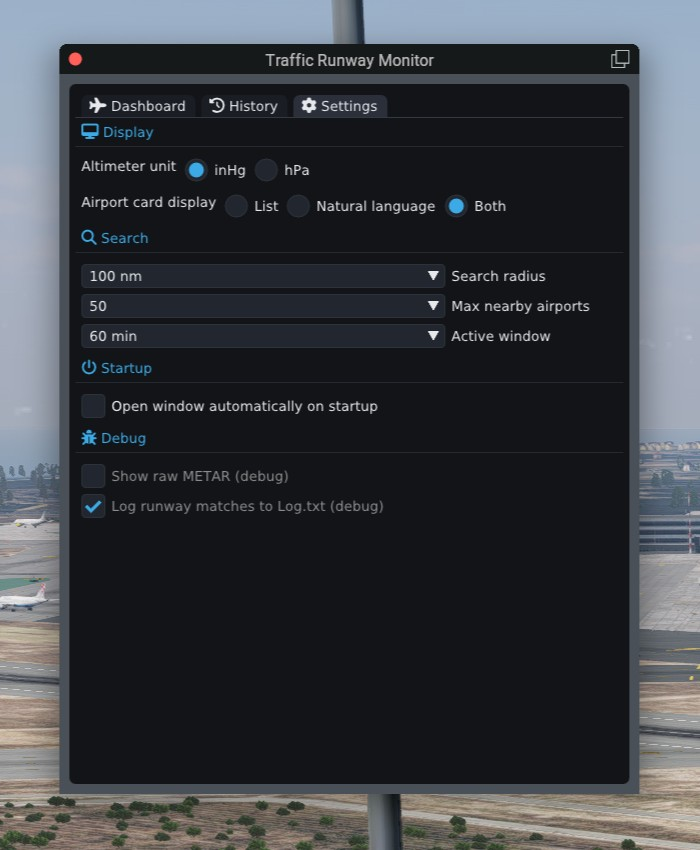
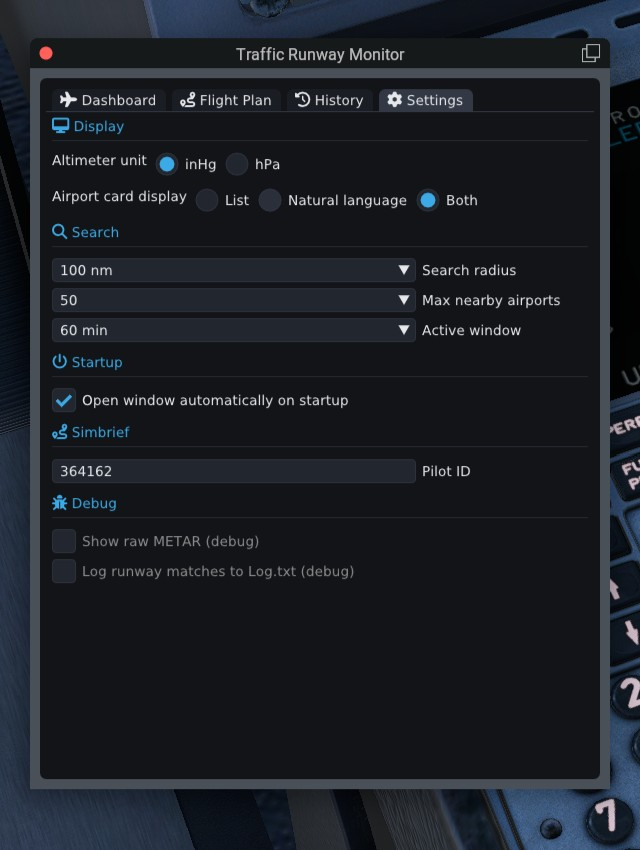
docs(readme): add flight plan screenshots, move gallery to top (#24)
Updates the dashboard/history/settings screenshots and adds the
previously-missing Flight Plan tab, and moves the screenshot gallery
to a single-row table at the top of the README for more visibility.

diff --git a/README.md b/README.md
@@ -3,6 +3,17 @@
 An X-Plane 12 plugin that watches nearby AI/multiplayer traffic and reports
 confirmed runway arrivals and departures in an ImGui dashboard.
 
+<p align="center">
+<img src="docs/images/dashboard.jpg" width="150" alt="Dashboard tab"/>
+<img src="docs/images/flightplan1.jpg" width="150" alt="Flight Plan tab"/>
+<img src="docs/images/flightplan2.jpg" width="150" alt="Flight Plan tab continued"/>
+<img src="docs/images/history.jpg" width="150" alt="History tab"/>
+<img src="docs/images/settings.jpg" width="150" alt="Settings tab"/>
+</p>
+<p align="center">
+<sub><b>Dashboard</b> · <b>Flight Plan</b> · <b>History</b> · <b>Settings</b></sub>
+</p>
+
 ## Why
 
 You plan an approach the way you normally would: check the winds, read the
@@ -52,21 +63,20 @@ Open the plugin's window from X-Plane's Plugins menu. It has four tabs:
 - **Flight Plan**: origin/destination ICAO, editable whenever the native FMS
   has no matching entry; a "Fetch from Simbrief" button fills them in from
   your current Simbrief OFP (pilot ID configured once in Settings) and shows
-  its planned route in LIDO-style text (e.g.
+  a simplified OFP excerpt (flight number, aircraft, cost index, alternate,
+  release) alongside the planned route in LIDO-style text (e.g.
   `LEBL/20 SENIA2J SENIA Z596 NEXAS N975 ADUXO ADUXO3D LEMD/32R`). A
   Procedures block recommends a departure SID and arrival STAR/approach that
   actually match the runway in use, parsed straight from X-Plane's own CIFP
   navdata rather than trusting Simbrief's tentative OFP runway guess, with
   each pick freely overridable and the runway(s) currently active for
-  confirmed real traffic highlighted for reference.
+  confirmed real traffic highlighted for reference. Below that, the OFP's
+  planned fuel figures and estimated/max weights (ZFW, fuel, takeoff,
+  landing) round out the summary.
 - **History**: confirmed arrival/departure events (icao/runway/category/callsign).
 - **Settings**: display and search options (altimeter unit, airport card
   layout, search radius), plus debug options including logging runway
   matches to `Log.txt`.
-
-| Dashboard | History | Settings |
-|-----------|---------|----------|
-| ![Dashboard tab](docs/images/dashboard.jpg) | ![History tab](docs/images/history.jpg) | ![Settings tab](docs/images/settings.jpg) |
 
 ## How the matching/confirmation logic works
 